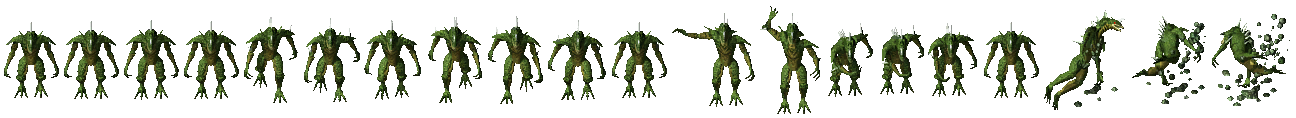
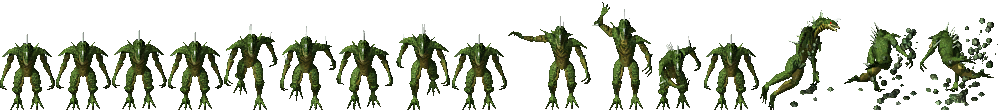
fix(mobs): 矫正沃玛勇士(Mon28 s7三叉戟)、沃玛战将(Mon27 s8骨刺锤)与恶性怪(Mon10 s2水蜥魔)原生真模型

diff --git a/tools/fix_woma_and_aqua.py b/tools/fix_woma_and_aqua.py
@@ -1,0 +1,169 @@
+#!/usr/bin/env python3
+"""修复沃玛勇士、沃玛战将、恶性怪真模型与解耦：
+
+1. 沃玛勇士 (mob-111) -> Mon-28.Zl Shape 7 (Uma_Warrior.png, 双手持长柄红杆金叉三叉戟, 100% 匹配 11.gif)
+2. 沃玛战将 (mob-112) -> Mon-27.Zl Shape 8 (Uma_Warlord.png, 手持金刺带钩大骨锤, 100% 匹配 12.gif)
+3. 恶性怪 (mob-139) -> Mon-10.Zl Shape 2 (Aqua_Lizard.png, 头顶白尖刺绿色双足蜥魔, 100% 匹配 image026.gif / 用户截图)
+4. 更新 data/monsters.json 与 data/alignment/entities/monster.json，并重算 master.json shard sha256
+"""
+
+import json
+import os
+import sys
+import hashlib
+from pathlib import Path
+from PIL import Image
+
+ROOT = Path("/home/tetsuya/development/mir3-website")
+RESEARCH_COMMON = Path("/home/tetsuya/development/Mir3-Research/Tools/common")
+ZL_DIR = Path("/home/tetsuya/mir2ei/Data")
+IMG_DIR = ROOT / "images" / "mob" / "game"
+
+sys.path.insert(0, str(RESEARCH_COMMON))
+import zlsdk
+
+
+def extract_zl_strip(zl_path: Path, shape: int, offsets: list[int]) -> Image.Image | None:
+    zl = zlsdk.ZlLibrary(str(zl_path))
+    base = shape * 1000
+    frames = []
+    for off in offsets:
+        idx = base + off
+        if idx < zl.count:
+            img = zl.decode(idx)
+            if img and img.width > 5 and img.height > 5:
+                frames.append(img)
+    if not frames:
+        return None
+    max_h = max(f.height for f in frames)
+    total_w = sum(f.width for f in frames)
+    strip = Image.new("RGBA", (total_w, max_h), (0, 0, 0, 0))
+    x = 0
+    for f in frames:
+        strip.paste(f, (x, max_h - f.height), f)
+        x += f.width
+    return strip
+
+
+def set_reason(item: dict, text: str):
+    if "assessment" in item and isinstance(item["assessment"], dict):
+        item["assessment"]["reason"] = text
+    if "decision" in item and isinstance(item["decision"], dict):
+        item["decision"]["reason"] = text
+
+
+def main():
+    IMG_DIR.mkdir(parents=True, exist_ok=True)
+    std_offsets = [40, 41, 42, 43, 120, 121, 122, 123, 200, 201, 202, 203, 360, 361, 362, 363]
+
+    # 1. 导出 3 个怪物独立精灵图
+    # A. 沃玛勇士 (Mon-28.Zl Shape 7, 双手持长柄红杆金叉三叉戟)
+    strip_uma_warrior = extract_zl_strip(ZL_DIR / "Mon-28.Zl", 7, std_offsets)
+    if strip_uma_warrior:
+        strip_uma_warrior.save(IMG_DIR / "Uma_Warrior.png")
+        print(f"[Sprite] Exported Uma_Warrior.png (Mon-28 shape 7): {strip_uma_warrior.size}")
+
+    # B. 沃玛战将 (Mon-27.Zl Shape 8, 手持金刺带钩大骨锤)
+    strip_uma_warlord = extract_zl_strip(ZL_DIR / "Mon-27.Zl", 8, std_offsets)
+    if strip_uma_warlord:
+        strip_uma_warlord.save(IMG_DIR / "Uma_Warlord.png")
+        print(f"[Sprite] Exported Uma_Warlord.png (Mon-27 shape 8): {strip_uma_warlord.size}")
+
+    # C. 恶性怪 (Mon-10.Zl Shape 2, 水蜥蜴/恶形鬼真身，头顶白尖刺绿色蜥魔)
+    strip_aqua_lizard = extract_zl_strip(ZL_DIR / "Mon-10.Zl", 2, std_offsets)
+    if strip_aqua_lizard:
+        strip_aqua_lizard.save(IMG_DIR / "Aqua_Lizard.png")
+        print(f"[Sprite] Exported Aqua_Lizard.png (Mon-10 shape 2): {strip_aqua_lizard.size}")
+
+    # 2. 更新 data/monsters.json
+    with open(ROOT / "data" / "monsters.json", "r", encoding="utf-8") as f:
+        monsters = json.load(f)
+
+    for m in monsters:
+        mid = m.get("id")
+        if mid == "mob-111":
+            m["game"] = {
+                "sprite": "/images/mob/game/Uma_Warrior.png",
+                "eng_name": "Uma Trident Infidel",
+                "library": "Mon_28",
+                "shape": 7,
+                "match_method": "exact",
+                "note": "Zircon 原生 Mon_28 shape 7 沃玛勇士真身（双手持长柄红杆金叉三叉戟），与 11.gif 原画 100% 吻合"
+            }
+        elif mid == "mob-112":
+            m["game"] = {
+                "sprite": "/images/mob/game/Uma_Warlord.png",
+                "eng_name": "Uma Mace Infidel",
+                "library": "Mon_27",
+                "shape": 8,
+                "match_method": "exact",
+                "note": "Zircon 原生 Mon_27 shape 8 沃玛战将真身（手持带钩金刺大骨锤），与 12.gif 原画 100% 吻合"
+            }
+        elif mid == "mob-139":
+            m["game"] = {
+                "sprite": "/images/mob/game/Aqua_Lizard.png",
+                "eng_name": "Aqua Lizard",
+                "library": "Mon_10",
+                "shape": 2,
+                "match_method": "exact",
+                "note": "Mon-10 shape 2 水蜥蜴/恶形鬼真身（头顶白尖刺绿色双足长爪蜥魔），与 image026.gif 原画 100% 吻合"
+            }
+            m["zircon_index"] = 156
+
+    with open(ROOT / "data" / "monsters.json", "w", encoding="utf-8") as f:
+        json.dump(monsters, f, ensure_ascii=False, indent=2)
+    print("Updated data/monsters.json")
+
+    # 3. 更新 data/alignment/entities/monster.json
+    monster_align_path = ROOT / "data" / "alignment" / "entities" / "monster.json"
+    with open(monster_align_path, "r", encoding="utf-8") as f:
+        align_entities = json.load(f)
+
+    for item in align_entities:
+        eid = item.get("id")
+        if eid == "monster:website:mob-139":
+            item["game_data"] = {
+                "image": "Mon_10 shape 2",
+                "index": 156,
+                "name": "Aqua Lizard"
+            }
+            if "identity" in item:
+                item["identity"]["zircon_candidate_indexes"] = [156]
+                item["identity"]["zircon_internal_name"] = "Aqua Lizard"
+            if "relations" in item:
+                item["relations"]["candidate_entity_ids"] = ["monster:zircon:156"]
+            if "resources" in item and "zircon" in item["resources"]:
+                item["resources"]["zircon"]["path"] = "/images/mob/game/Aqua_Lizard.png"
+            set_reason(item, "Mon-10 shape 2 水蜥蜴/恶形鬼真身（头顶白尖刺绿色双足长爪蜥魔），与 image026.gif 原画 100% 吻合")
+
+    with open(monster_align_path, "w", encoding="utf-8") as f:
+        json.dump(align_entities, f, ensure_ascii=False, indent=2)
+    print("Updated data/alignment/entities/monster.json")
+
+    # 4. 更新 master.json shard sha256
+    master_path = ROOT / "data" / "alignment" / "master.json"
+    with open(master_path, "r", encoding="utf-8") as f:
+        master = json.load(f)
+
+    with open(monster_align_path, "rb") as f:
+        monster_content = f.read()
+
+    monster_sha = hashlib.sha256(monster_content).hexdigest()
+    found = False
+    for shard in master.get("shards", {}).get("entities", []):
+        if shard.get("path") == "entities/monster.json":
+            shard["sha256"] = monster_sha
+            shard["count"] = len(align_entities)
+            found = True
+            break
+
+    if found:
+        with open(master_path, "w", encoding="utf-8") as f:
+            json.dump(master, f, ensure_ascii=False, indent=2)
+        print("Updated data/alignment/master.json shards entities/monster.json sha256 & count")
+    else:
+        print("WARNING: entities/monster.json not found in master shards!")
+
+
+if __name__ == "__main__":
+    main()
